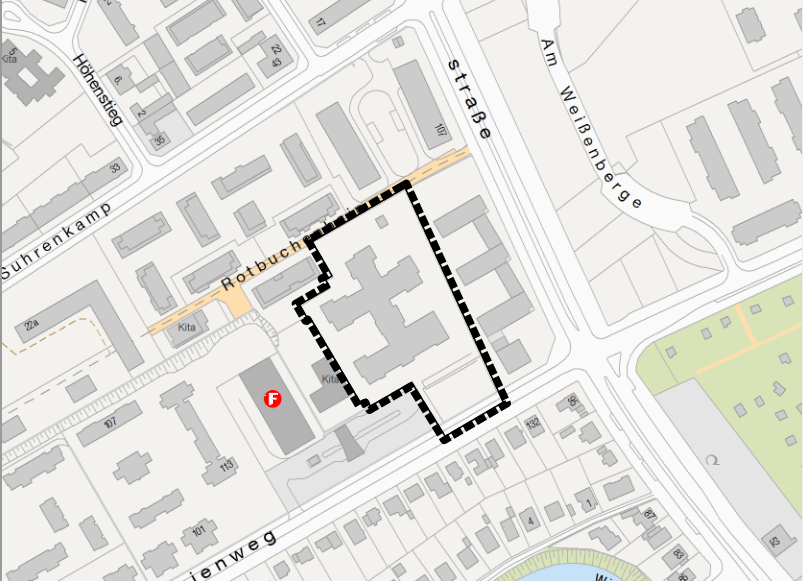
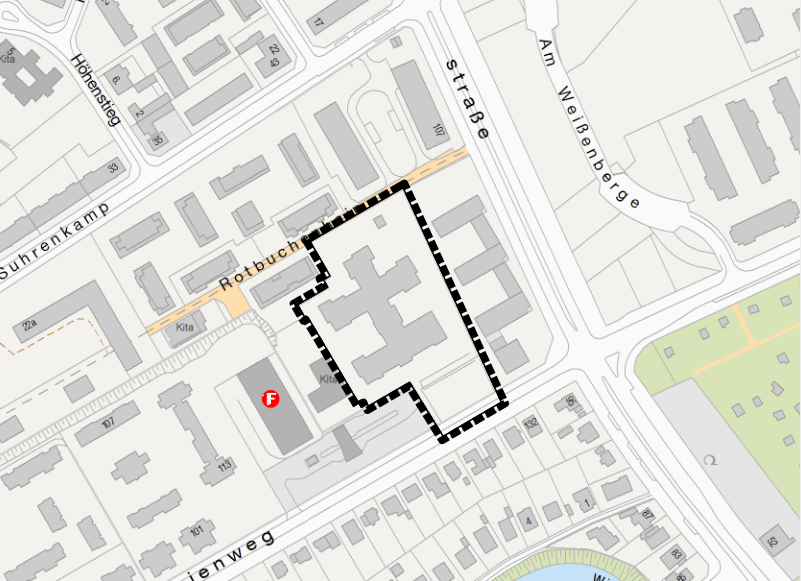
XPLANBOX-241 - fixed typos; added borders to images; imrpved level hierarchy

diff --git a/xplan-documentation/xplan-benutzerhandbuch/src/main/asciidoc/docinfo.html b/xplan-documentation/xplan-benutzerhandbuch/src/main/asciidoc/docinfo.html
@@ -1,0 +1,5 @@
+<style>
+.imageblock.bordered img {
+  border: 1px solid black;
+}
+</style>
